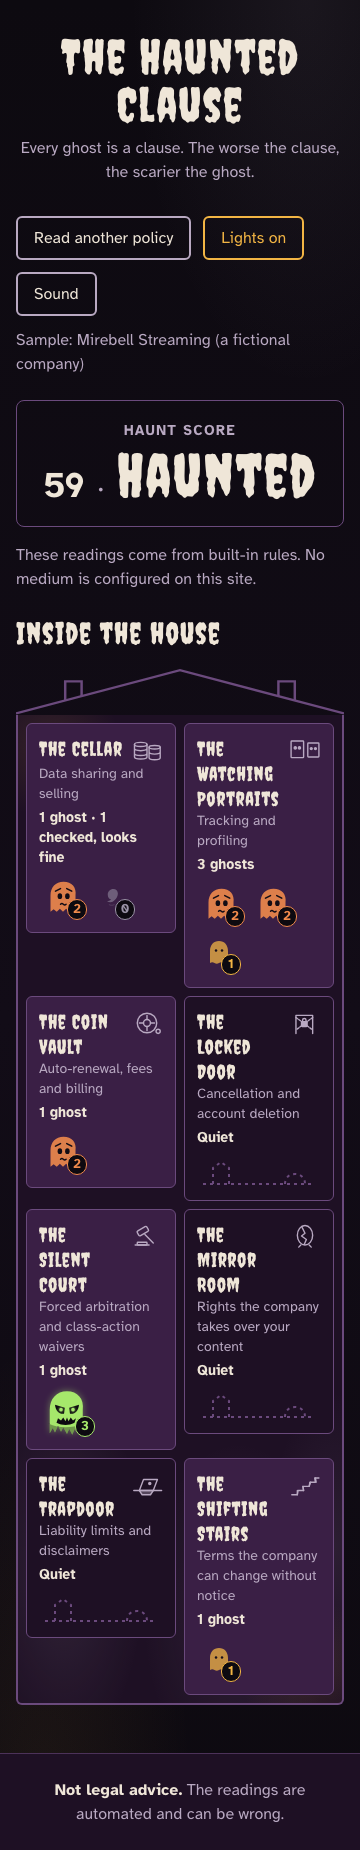
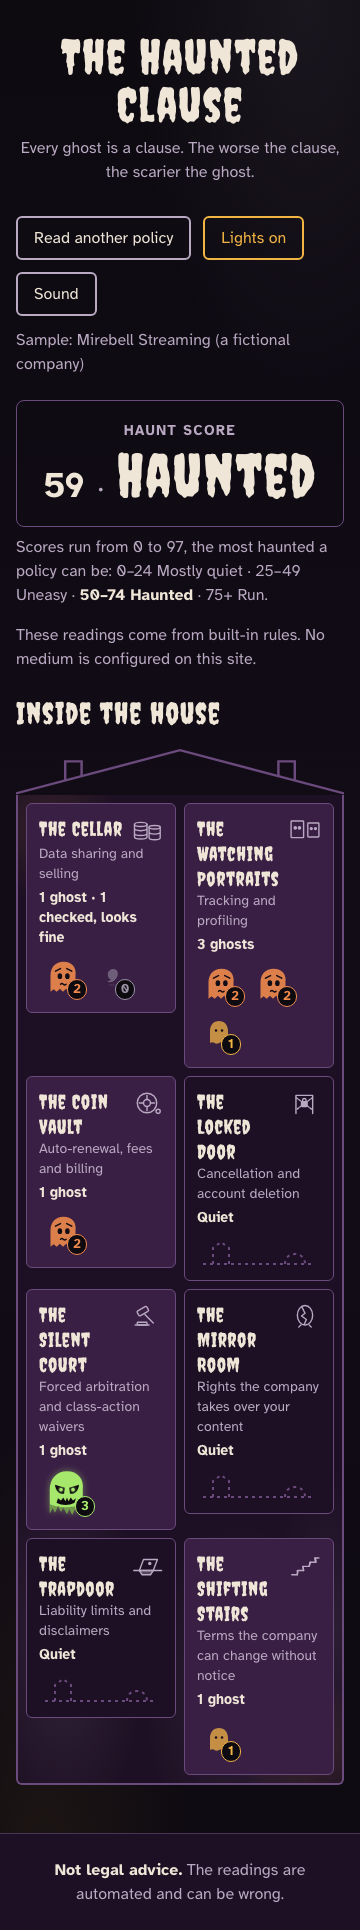
Screenshots regenerated with the score scale line (C24)

diff --git a/BUILD_LOG.md b/BUILD_LOG.md
@@ -1140,3 +1140,5 @@ No real company name or policy text is recorded here; they stay in the git-ignor
 - **Spec:** new criteria haunted-house-ui R7.4 and R8.6, a "Score scale line" section in the design, two matrix rows and Task 32.4; `check:trace` covers 241 criteria. `tasks.md` was edited by a script, so the Spec sync hook did not fire; this entry is the record.
 - **Placement choice, reported to the user:** in Lights on mode the line sits directly after the "Not legal advice" notice, which stays first, and the copy under the score panel also stays visible, so the line shows twice in that mode.
 - **Checks**, run one at a time: `npm run test:coverage` 75 files, 897 passed, lines 97%; lint and type-check clean; `CI=1 npm run test:e2e` 101 passed, including the existing axe scans of every state and the 360 px layout checks, now with the line present. No analyzer file changed; the sample scores stay 14, 59 and 97.
+- **Push (C24):** `54eb5e6..61003b3` after the four pre-push checks passed (250 tracked files). Vercel built it on its own: deployment `dpl_D4Pw19N5F8aJpY5XAHBsphgjd3QX`, production, `READY`. On the live site (Playwright library, 1440 px) the three samples show 14 · Mostly quiet, 59 · Haunted and 97 · Run with 0–24 Mostly quiet, 50–74 Haunted and 75+ Run highlighted; Lights on shows the line twice; 0 console errors.
+- **Screenshots:** `CI=1 npm run screenshots` (3 passed, fresh no-key build) rewrote the images; 11 of 13 changed (every house view, both detail panels and both Lights on images), and the two input-screen images came out identical. `house-terrible-360.png` was checked by eye: the line wraps under the panel at 360 px with "75+ Run" in bold.
